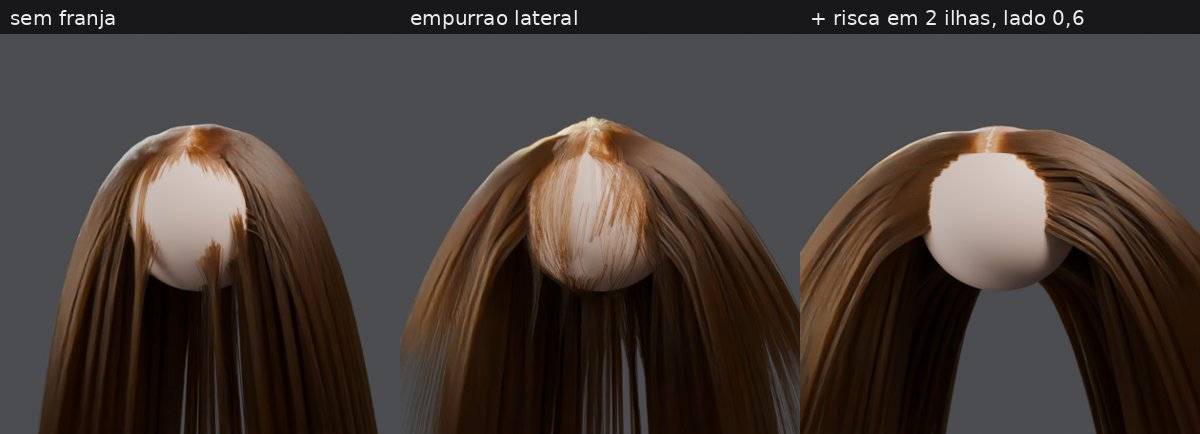
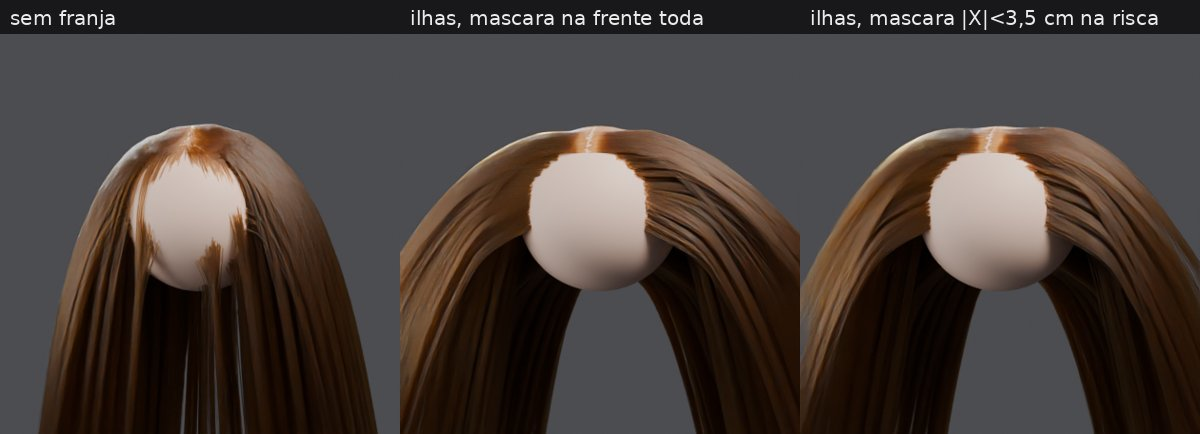
Laboratorio: diagnostico da franja cortina (guias dominam)
Claude-Session: https://claude.ai/code/session_01X2WLpJ3ZerMyfhQCw5D11G

diff --git a/Estudos Extras Curriculares/Blender Hair Geometry Nodes/laboratorio/scripts/r106_cortina.py b/Estudos Extras Curriculares/Blender Hair Geometry Nodes/laboratorio/scripts/r106_cortina.py
@@ -23,7 +23,7 @@ if "ilhas" in sys.argv:
 t.chain(m, m.inputs[0].name, m.outputs[0].name)
 base = t.geo
 if V == "cortina":
-    mk = grp("GR Máscara por Posição", **{"Frente máx (Y)": -0.045, "Altura mín": 0.03, "Borda suave": 0.012})
+    mk = grp("GR Máscara por Posição", **({"Frente máx (Y)": -0.03, "Altura mín": 0.04, "Lateral máx (|X|)": 0.035, "Borda suave": 0.01} if "risca" in sys.argv else {"Frente máx (Y)": -0.045, "Altura mín": 0.03, "Borda suave": 0.012}))
     mr = t.add('ShaderNodeMapRange'); t.link(mk.outputs[0], mr.inputs['Value']); mr.inputs['To Min'].default_value = 1.0; mr.inputs['To Max'].default_value = 0.42
     tr = t.add('GeometryNodeGroup', group=EG['Trim Hair Curves']); tr.inputs['Replace Length'].default_value = False; t.link(base, tr.inputs['Geometry']); t.link(mr.outputs['Result'], tr.inputs['Length Factor'])
     # abre para os lados: offset lateral = sign(x raiz) * s^2 * 5 cm * mascara, e um pouco para tras

diff --git a/Estudos Extras Curriculares/_referencia/grooming/CEREBRO_GROOMING.md b/Estudos Extras Curriculares/_referencia/grooming/CEREBRO_GROOMING.md
@@ -2743,5 +2743,10 @@ Terceiro passo: **scalp em duas ilhas** (17.13) + GR Lado da Risca no Group
 ID da Mecha + Para o lado 0,6 nas guias. Sai um "V" limpo no meio e o
 cabelo emoldura o rosto, mas a parte curta da franja fica escondida nas
 laterais. Resultado: risca central com moldura, ainda não a cortina curta.
-O que falta, a testar: o comprimento curto só nos primeiros 3 cm de cada
-lado da risca (máscara pela distância à risca, não pela frente toda).
+Testada a máscara só perto da risca (\|X\| < 3,5 cm, frente, topo):
+visual praticamente igual. Diagnóstico: **a direção das guias domina**; com
+Para o lado 0,6, os fios da risca já saem para os lados e o Trim só os
+encurta lá. A franja cortina precisa de **guias próprias** caindo sobre a
+testa e abrindo em arco (um segundo conjunto de guias procedurais, ou
+guias desenhadas 17.71, misturado pela GR Transição com a máscara). Fica
+como próximo teste.
